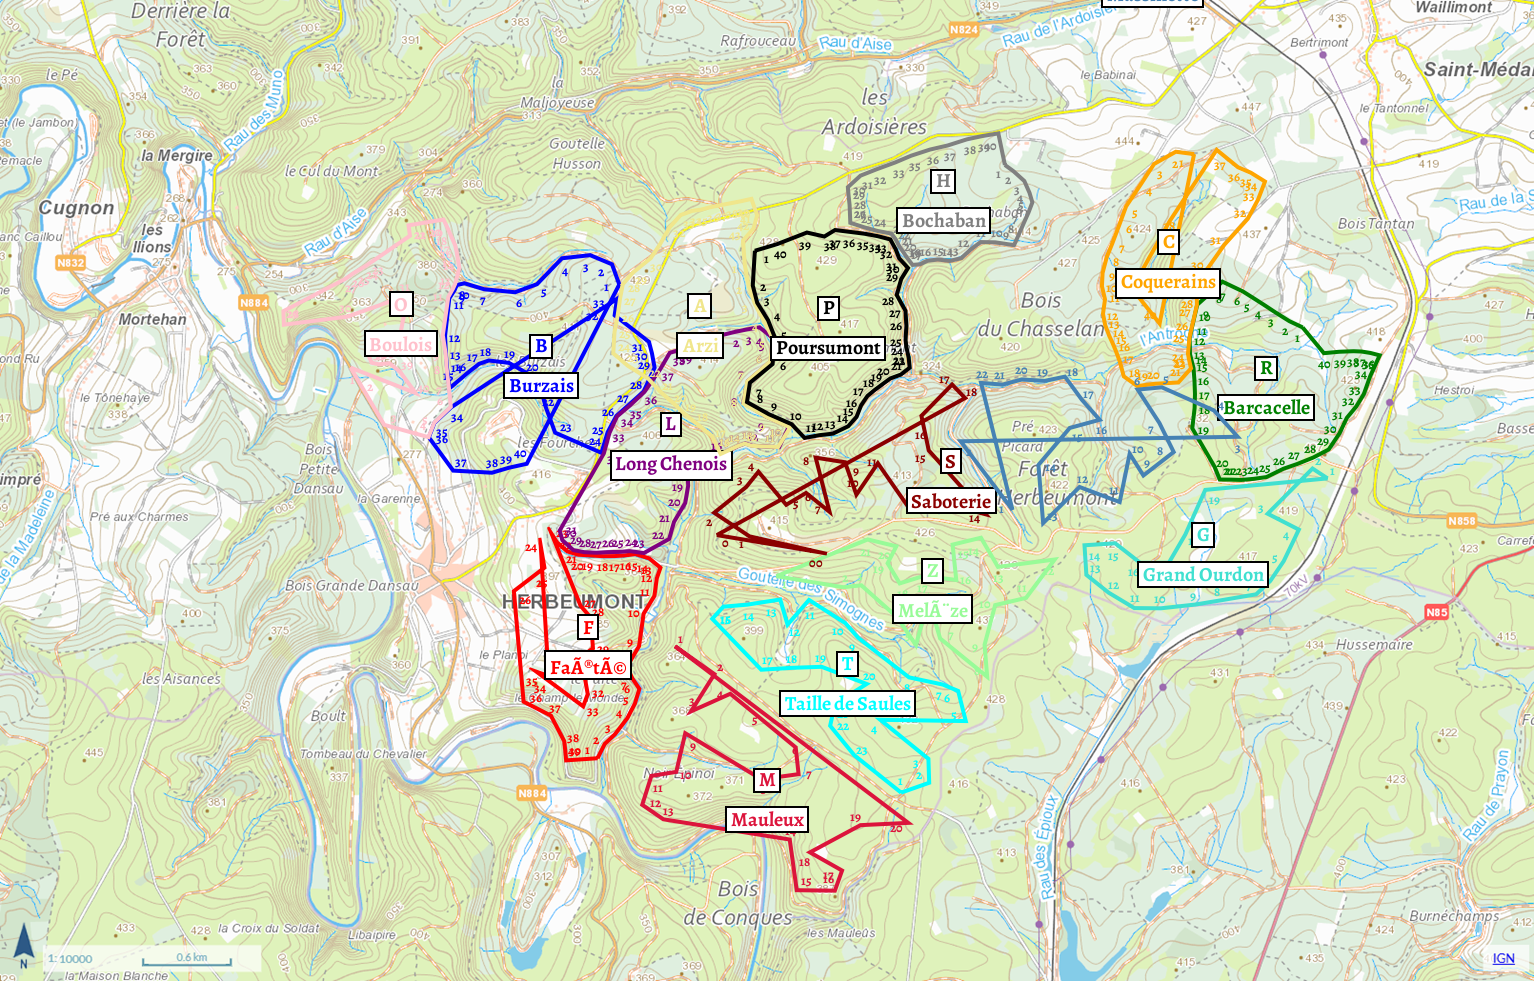
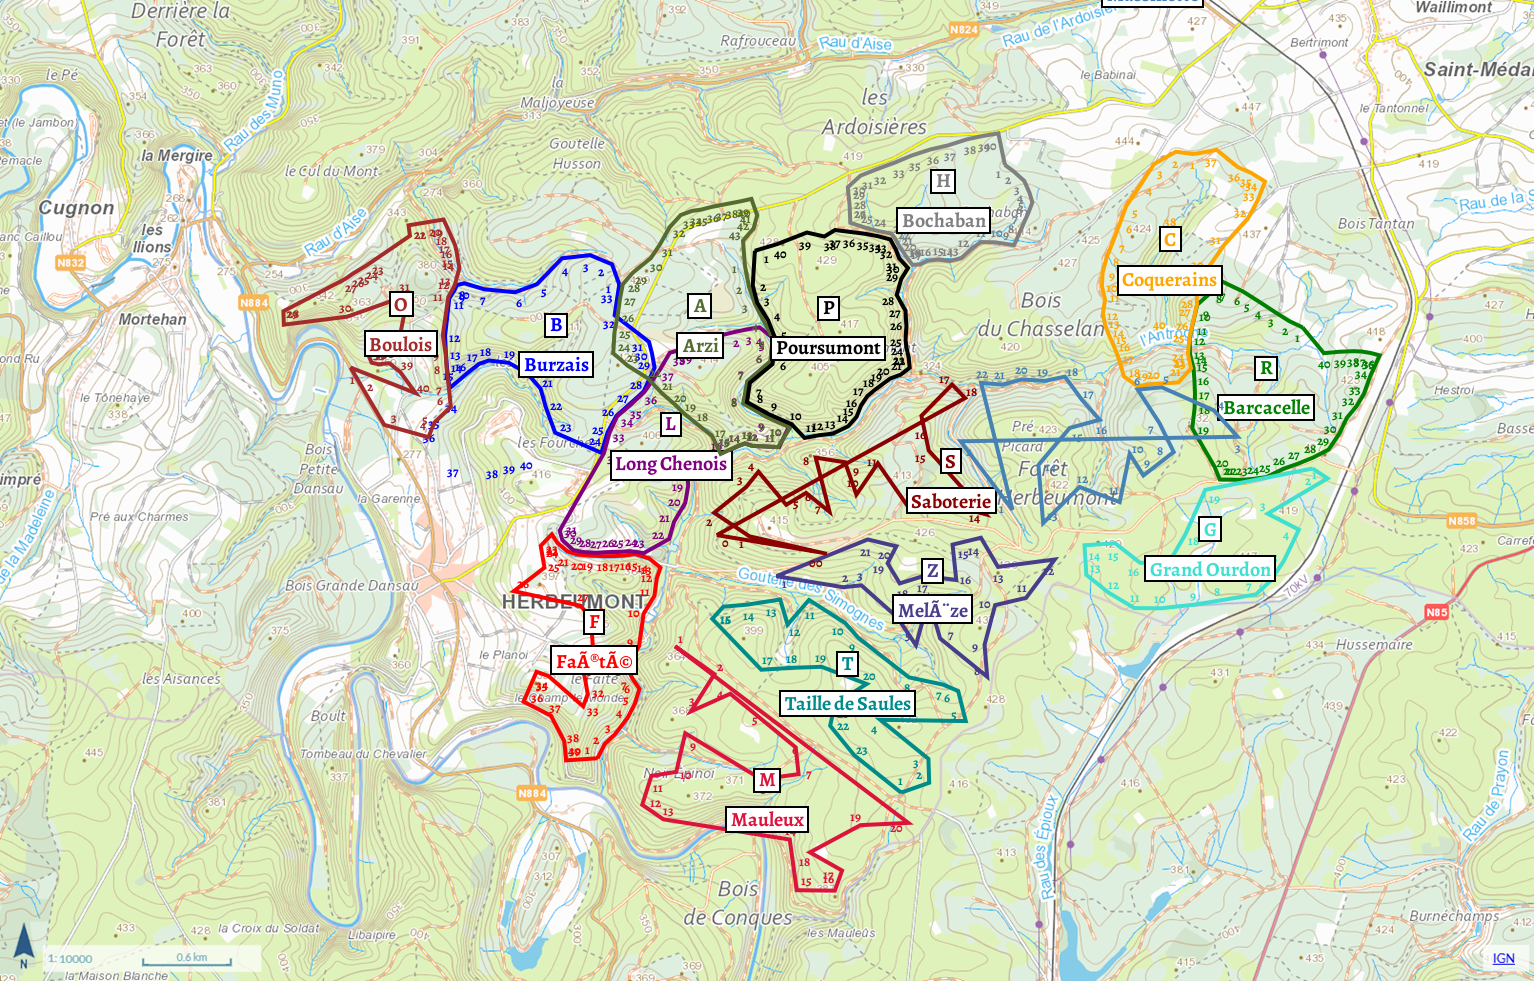
added poste skip option in csv

diff --git a/src/map.py b/src/map.py
@@ -43,7 +43,8 @@ class Map:
         line_vertices = self.get_line_vertices(battue)
         for poste in battue.postes:
             point = self.convert_lambert_to_pixel(poste.lambert_point) + poste.line_offset
-            point = self.adjust_poste_point(point, battue.parity, line_vertices)
+            if not poste.skip_path:
+                point = self.adjust_poste_point(point, battue.parity, line_vertices)
             point += poste.number_offset
             # point = np.array([xcor, ycor])
             fnt = ImageFont.truetype(paths["font"], 13)
@@ -109,6 +110,8 @@ class Map:
     def get_line_vertices(self, battue: Battue, dup_first=False):
         poste_pixel_coordinate_list: [(int, int)] = []
         for poste in battue.postes:
+            if poste.skip_path:
+                continue
             poste_pixel_coordinate = self.convert_lambert_to_pixel(poste.lambert_point) + poste.line_offset
             poste_pixel_coordinate_list.append(poste_pixel_coordinate)
         if dup_first:

diff --git a/src/battue.py b/src/battue.py
@@ -23,6 +23,8 @@ class Poste:
         else:
             self.line_offset = np.array([0, 0])
 
+        self.skip_path = poste_csv.get("skip_path", "") == "1"
+
     def get_point_as_tuple(self):
         return (self.lambert_point.x, self.lambert_point.y)
 
